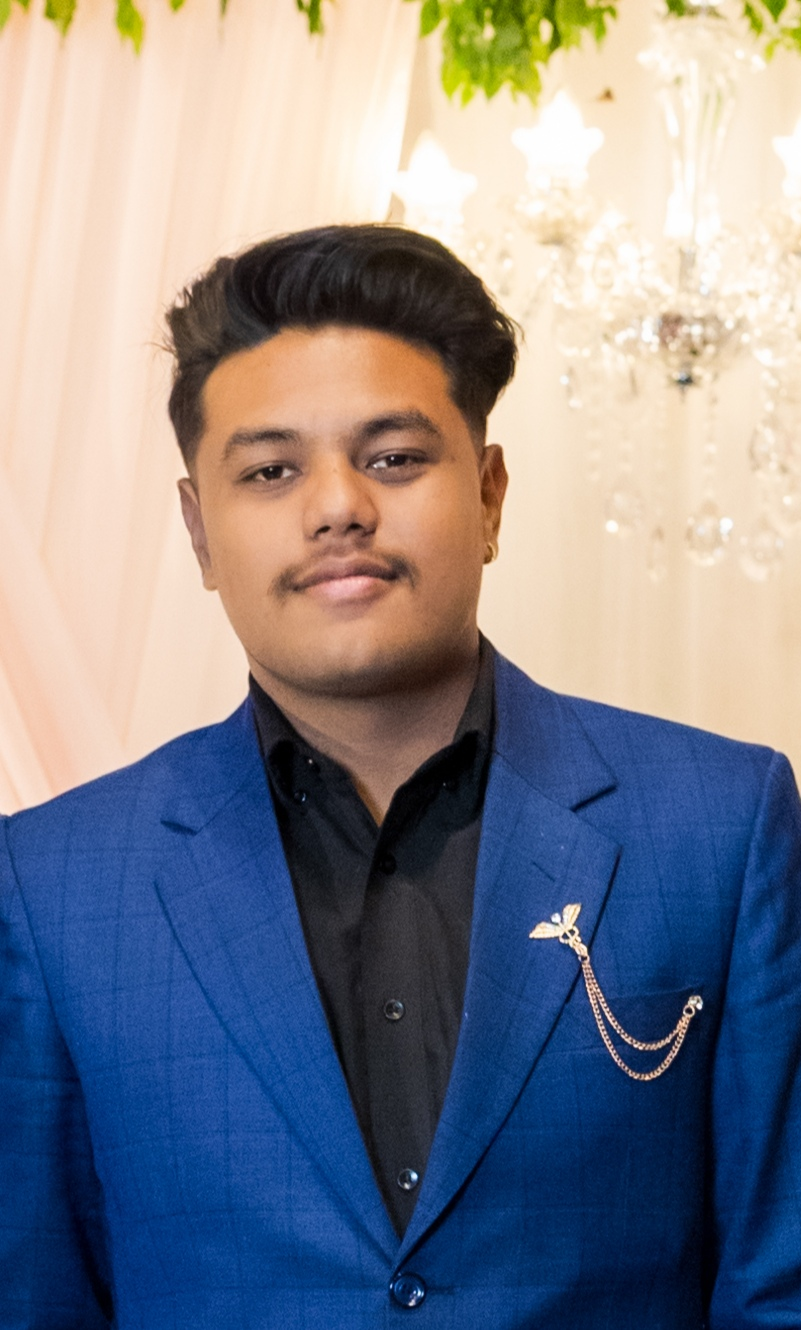
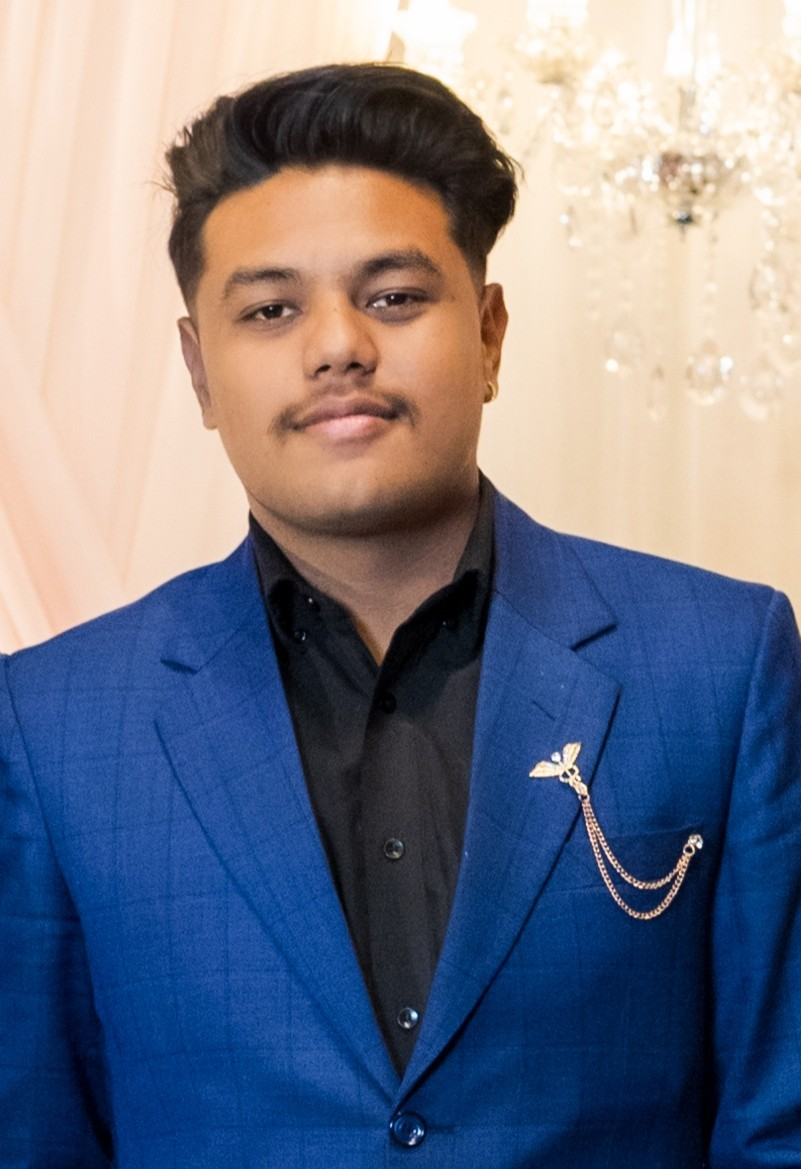
Your commit message here

diff --git a/index.html b/index.html
@@ -266,7 +266,7 @@
     <section id="home" class="min-h-screen flex flex-col items-center justify-center pt-20 relative">
       <div class="w-56 h-56 relative mb-6">
         <div class="halo"></div>
-        <img src="images/shahil.jpg"
+        <img src="images/shgo.jpg"
           class="w-full h-full rounded-full border-4 border-cyberCyan object-cover relative z-10">
       </div>
 
